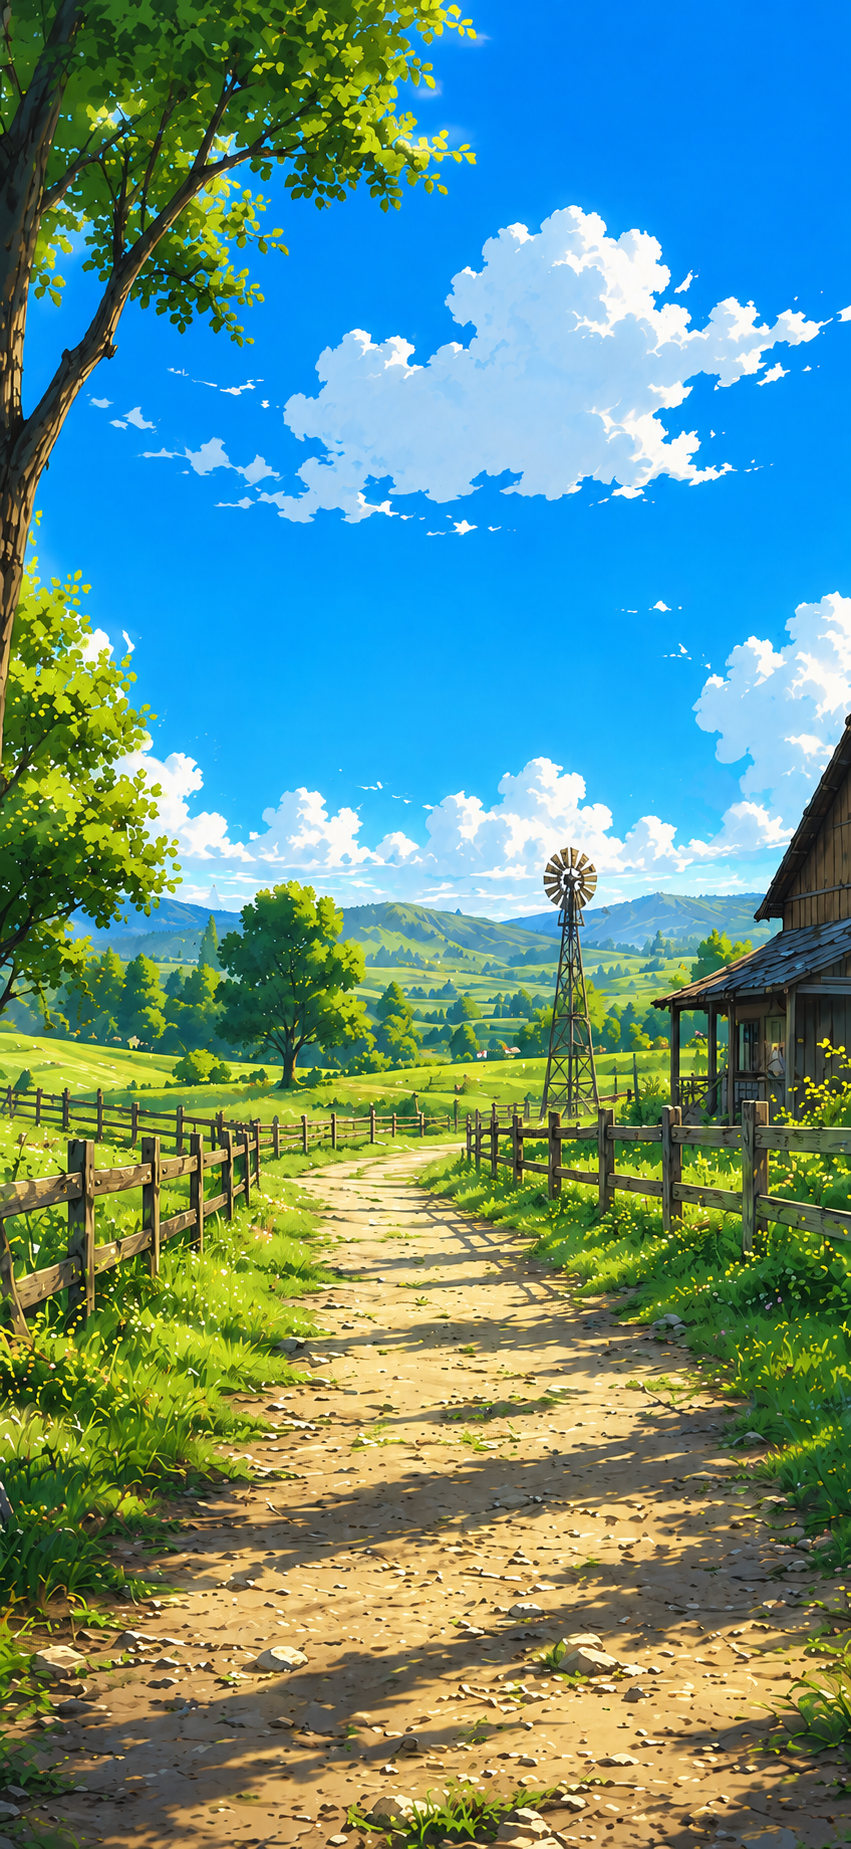
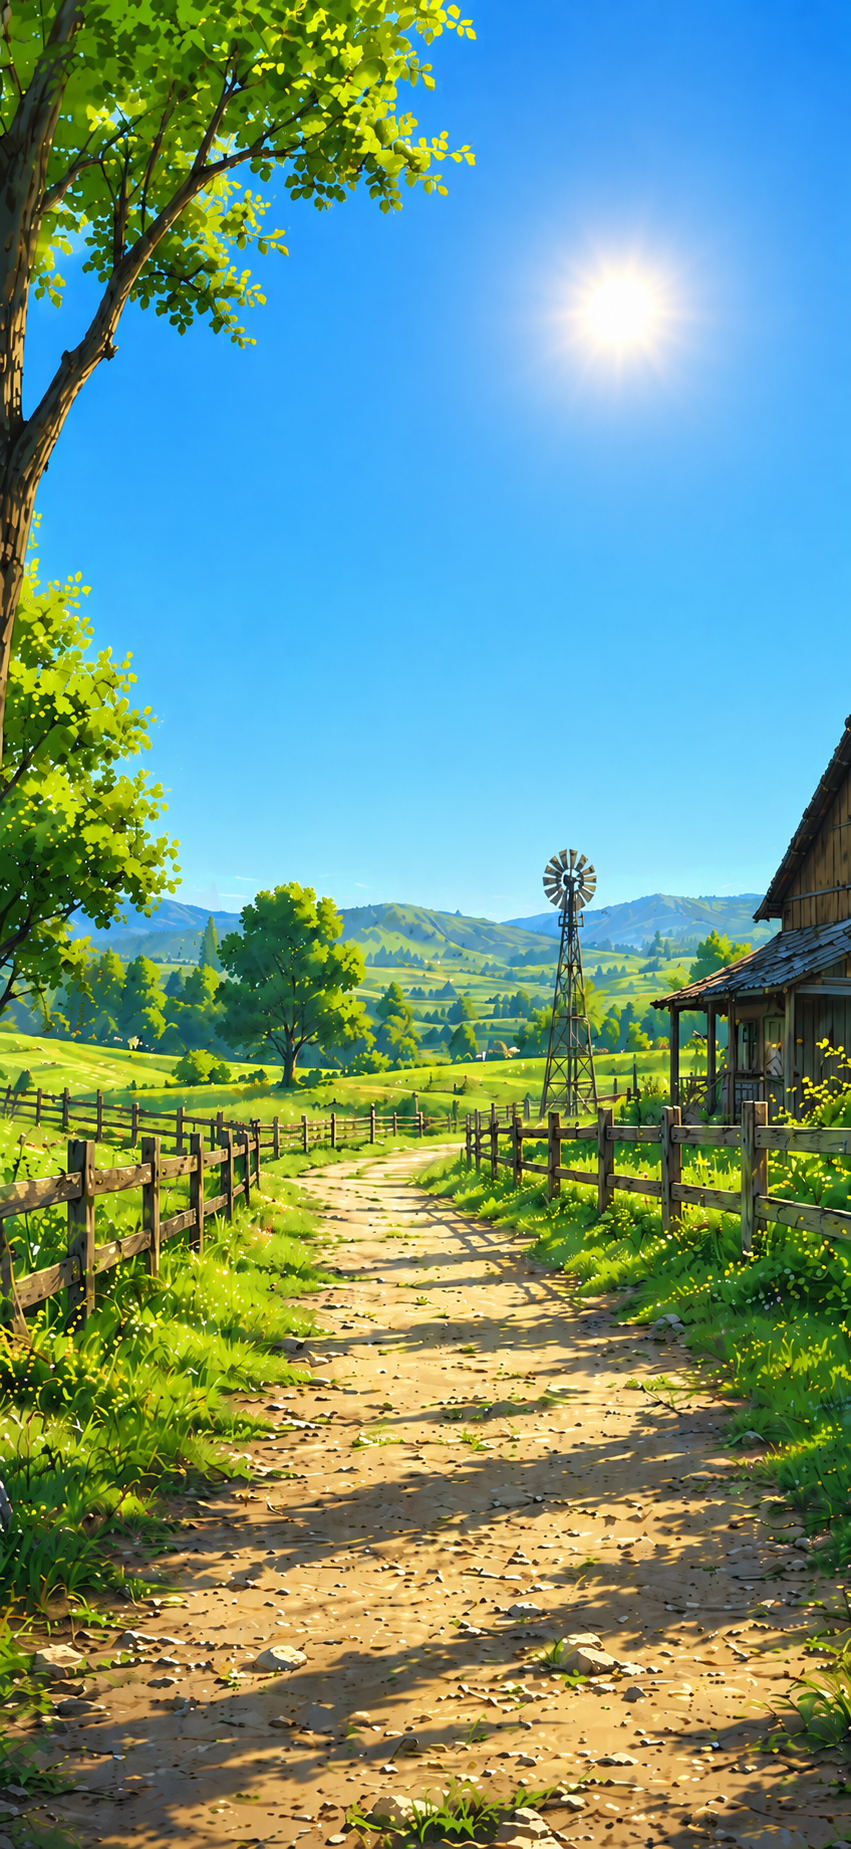
removed unused weather condition logic, changed sunny bg image

diff --git a/src/lib/weather.ts b/src/lib/weather.ts
@@ -20,7 +20,7 @@ export function resolveWeatherType(
 
   // Partly cloudy
   if (weatherCode === 2) {
-    return isDay ? "partly_cloudy" : "night_partly_cloudy";
+    return isDay ? "partly_cloudy" : "night_clear";
   }
 
   // Mainly clear -> treat as sunny
@@ -29,7 +29,7 @@ export function resolveWeatherType(
   }
   // Overcast / cloud groups
   if ([3, 45, 48].includes(weatherCode)) {
-    return isDay ? "cloudy" : "night_partly_cloudy";
+    return isDay ? "cloudy" : "night_clear";
   }
 
   if ([51, 53, 55, 56, 57, 61, 63, 65, 80, 81, 82, 95, 96, 99].includes(weatherCode)) {
@@ -37,7 +37,7 @@ export function resolveWeatherType(
   }
 
   if ([71, 73, 75, 77, 85, 86].includes(weatherCode)) {
-    return isDay ? "cloudy" : "night_partly_cloudy";
+    return isDay ? "cloudy" : "night_clear";
   }
 
   return isDay ? "sunny" : "night_clear";
